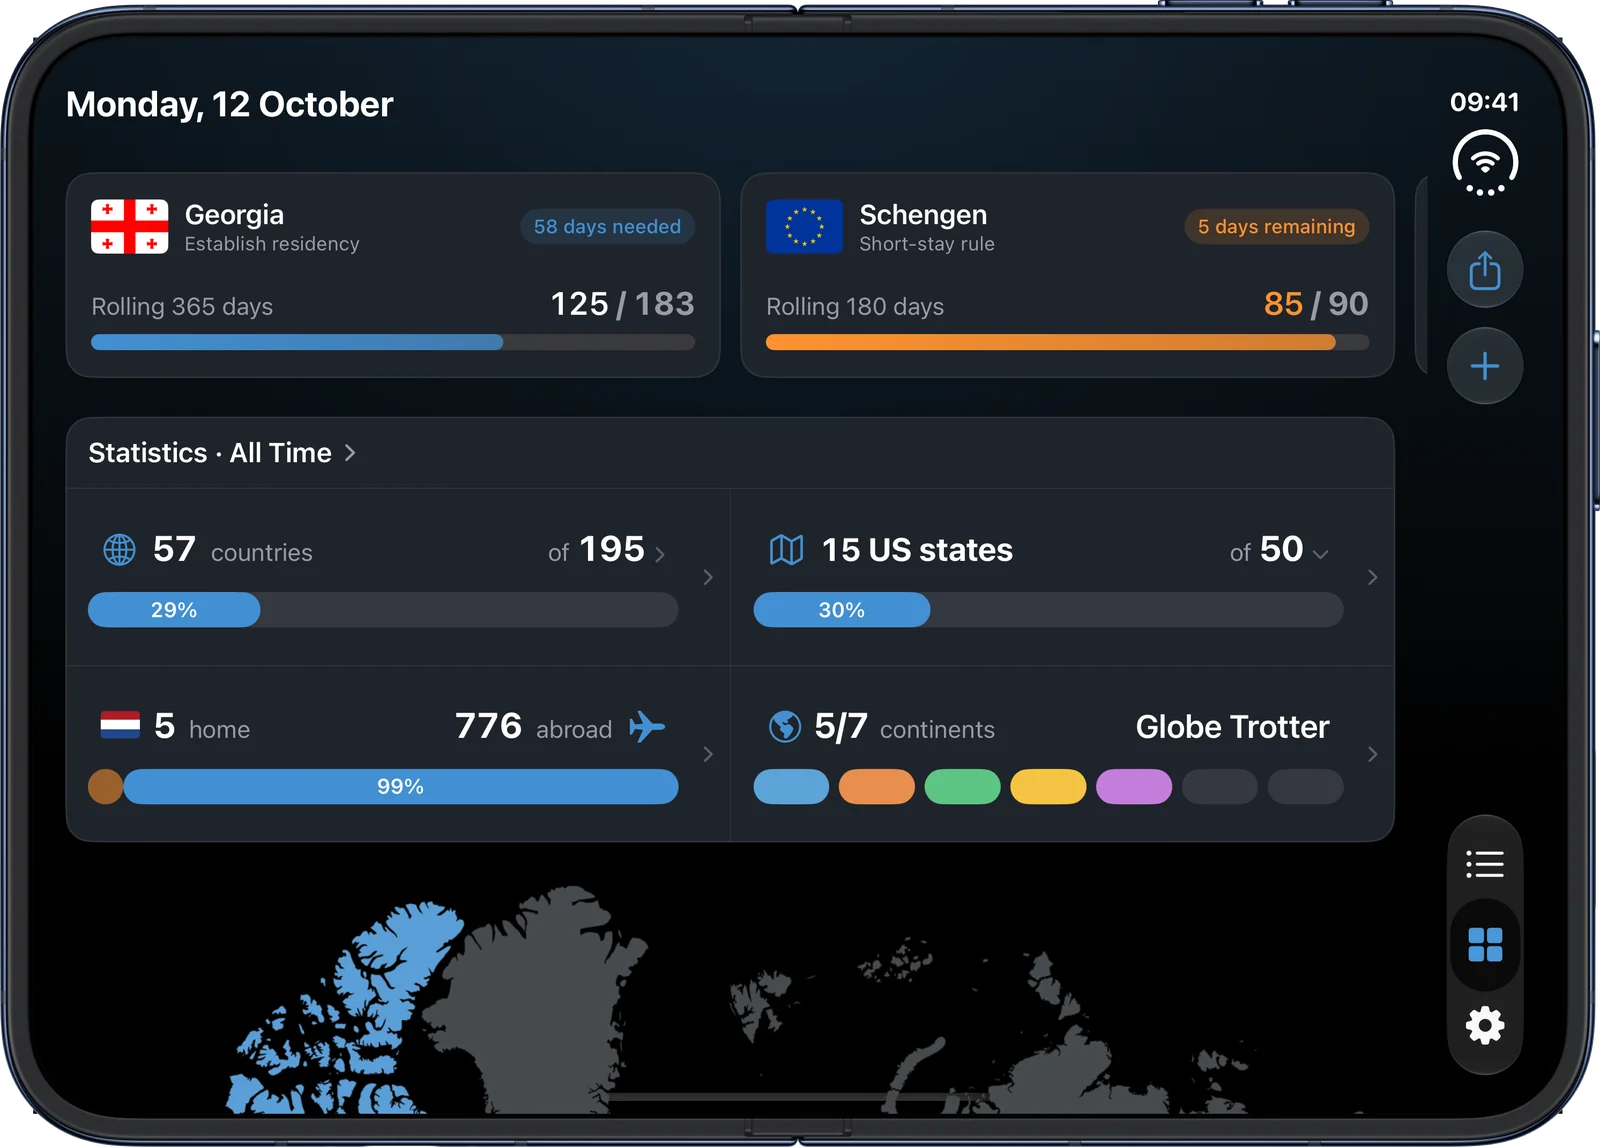
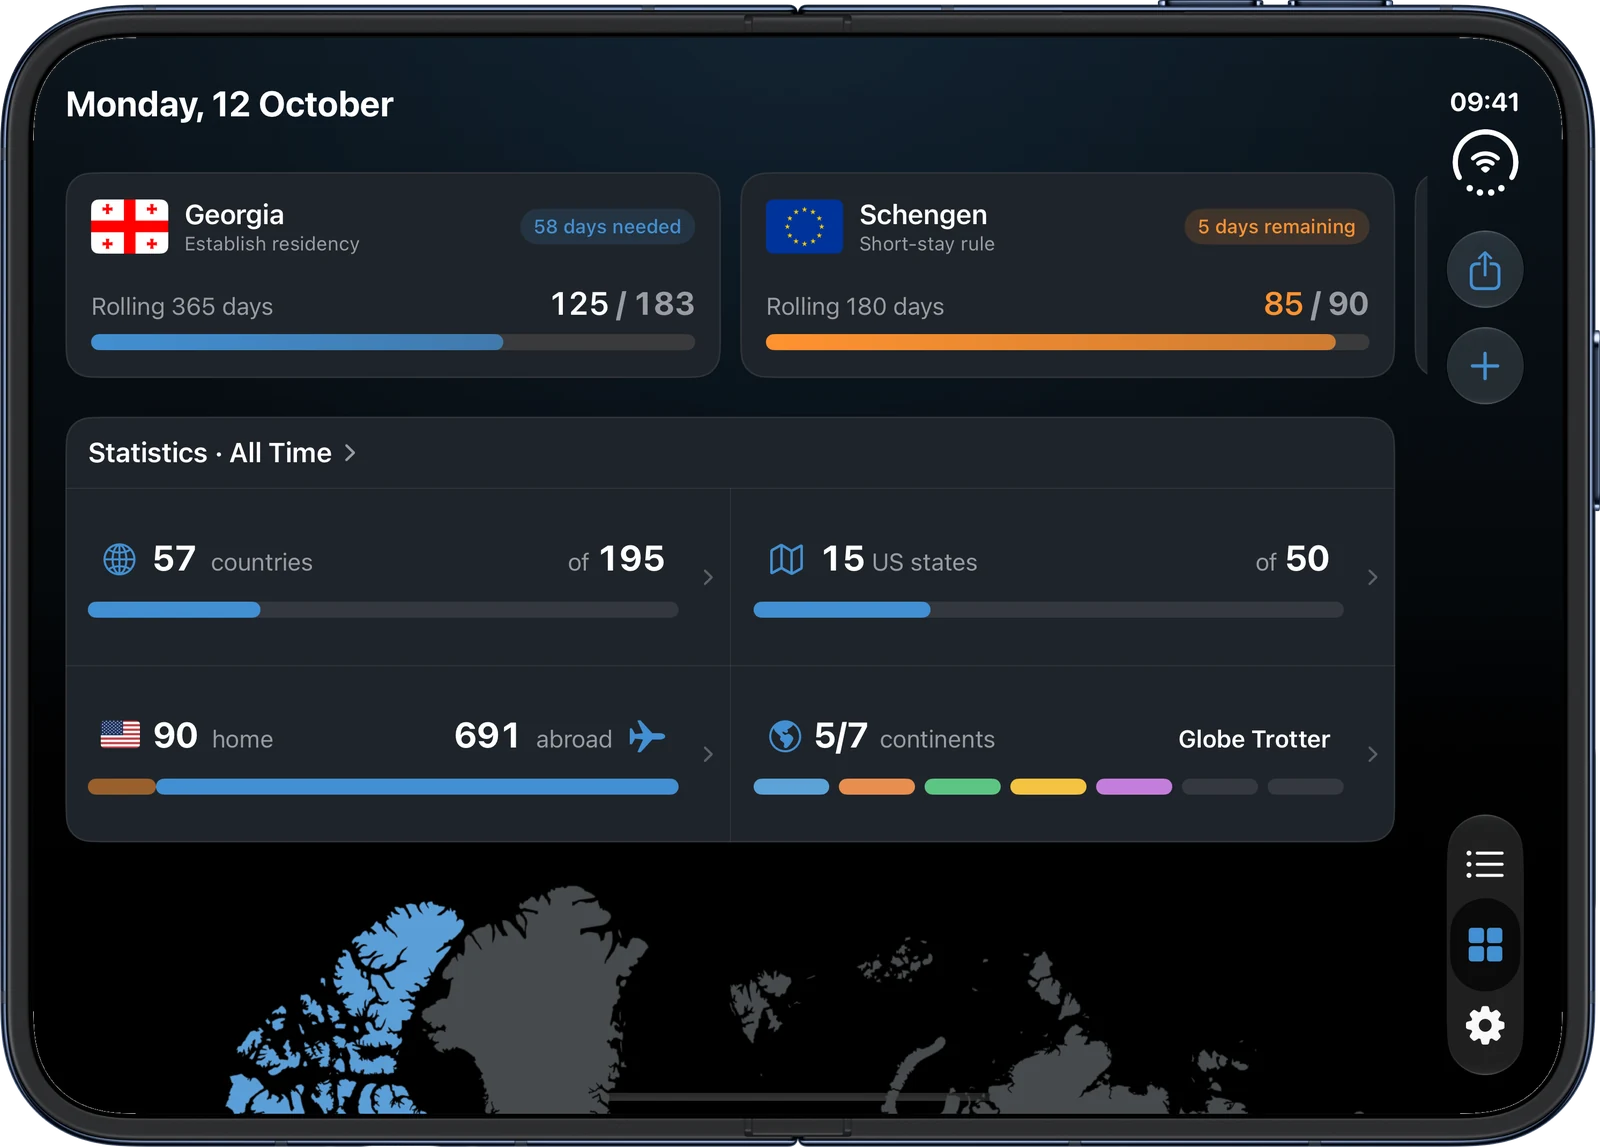
Press: byline, new Duo dashboard stats and a north-tilted globe
The dashboard pair shows the slimmer statistics bars and the US states
count in the same type as the other stats. The globe is recaptured with
the camera tilted north, so Europe, the Caucasus and Central Asia fill
the opened display instead of Africa. The page now names its author and
when it was last updated.

diff --git a/press/iphone-duo/index.html b/press/iphone-duo/index.html
@@ -42,6 +42,8 @@
     .hero { text-align: center; padding: 64px 0 24px; }
     .eyebrow { color: var(--blue); font-weight: 600; font-size: 15px; letter-spacing: 0.02em; margin: 0 0 12px; }
     h1 { font-size: clamp(36px, 6vw, 60px); line-height: 1.05; letter-spacing: -0.02em; margin: 0 0 18px; }
+    .byline { color: var(--muted); font-size: 15px; margin: 20px 0 0; }
+    .byline a { color: inherit; }
     .lede { color: var(--muted); font-size: clamp(18px, 2.2vw, 21px); max-width: 660px; margin: 0 auto; }
 
     section { padding: 56px 0; border-top: 1px solid var(--line); }
@@ -94,6 +96,7 @@
         <p class="eyebrow">Coming in the next update</p>
         <h1>AtlasDays for iPhone&nbsp;Duo</h1>
         <p class="lede">Closed, it is the iPhone app people know. Open it, and your trips and your calendar sit side by side.</p>
+        <p class="byline">By <a href="/about">Jorick van Meijeren</a> · Updated <time datetime="2026-10-13">13 October 2026</time></p>
       </div>
 
       <section aria-labelledby="timeline">
@@ -145,7 +148,7 @@
         <h2 id="globe">Every country you've been to</h2>
         <p class="section-copy">The 3D globe fills the opened display and turns under your finger. AtlasDays can build it for you from the photos already in your library.</p>
         <figure class="single">
-          <img src="/assets/press/iphone-duo/globe-open.webp" alt="A 3D globe on the opened iPhone Duo with visited countries in Europe, Africa and Asia highlighted in blue" width="1600" height="1162" />
+          <img src="/assets/press/iphone-duo/globe-open.webp" alt="A 3D globe on the opened iPhone Duo with visited countries in Europe, the Caucasus and Central Asia highlighted in blue" width="1600" height="1147" />
           <figcaption>Opened, landscape</figcaption>
         </figure>
       </section>
